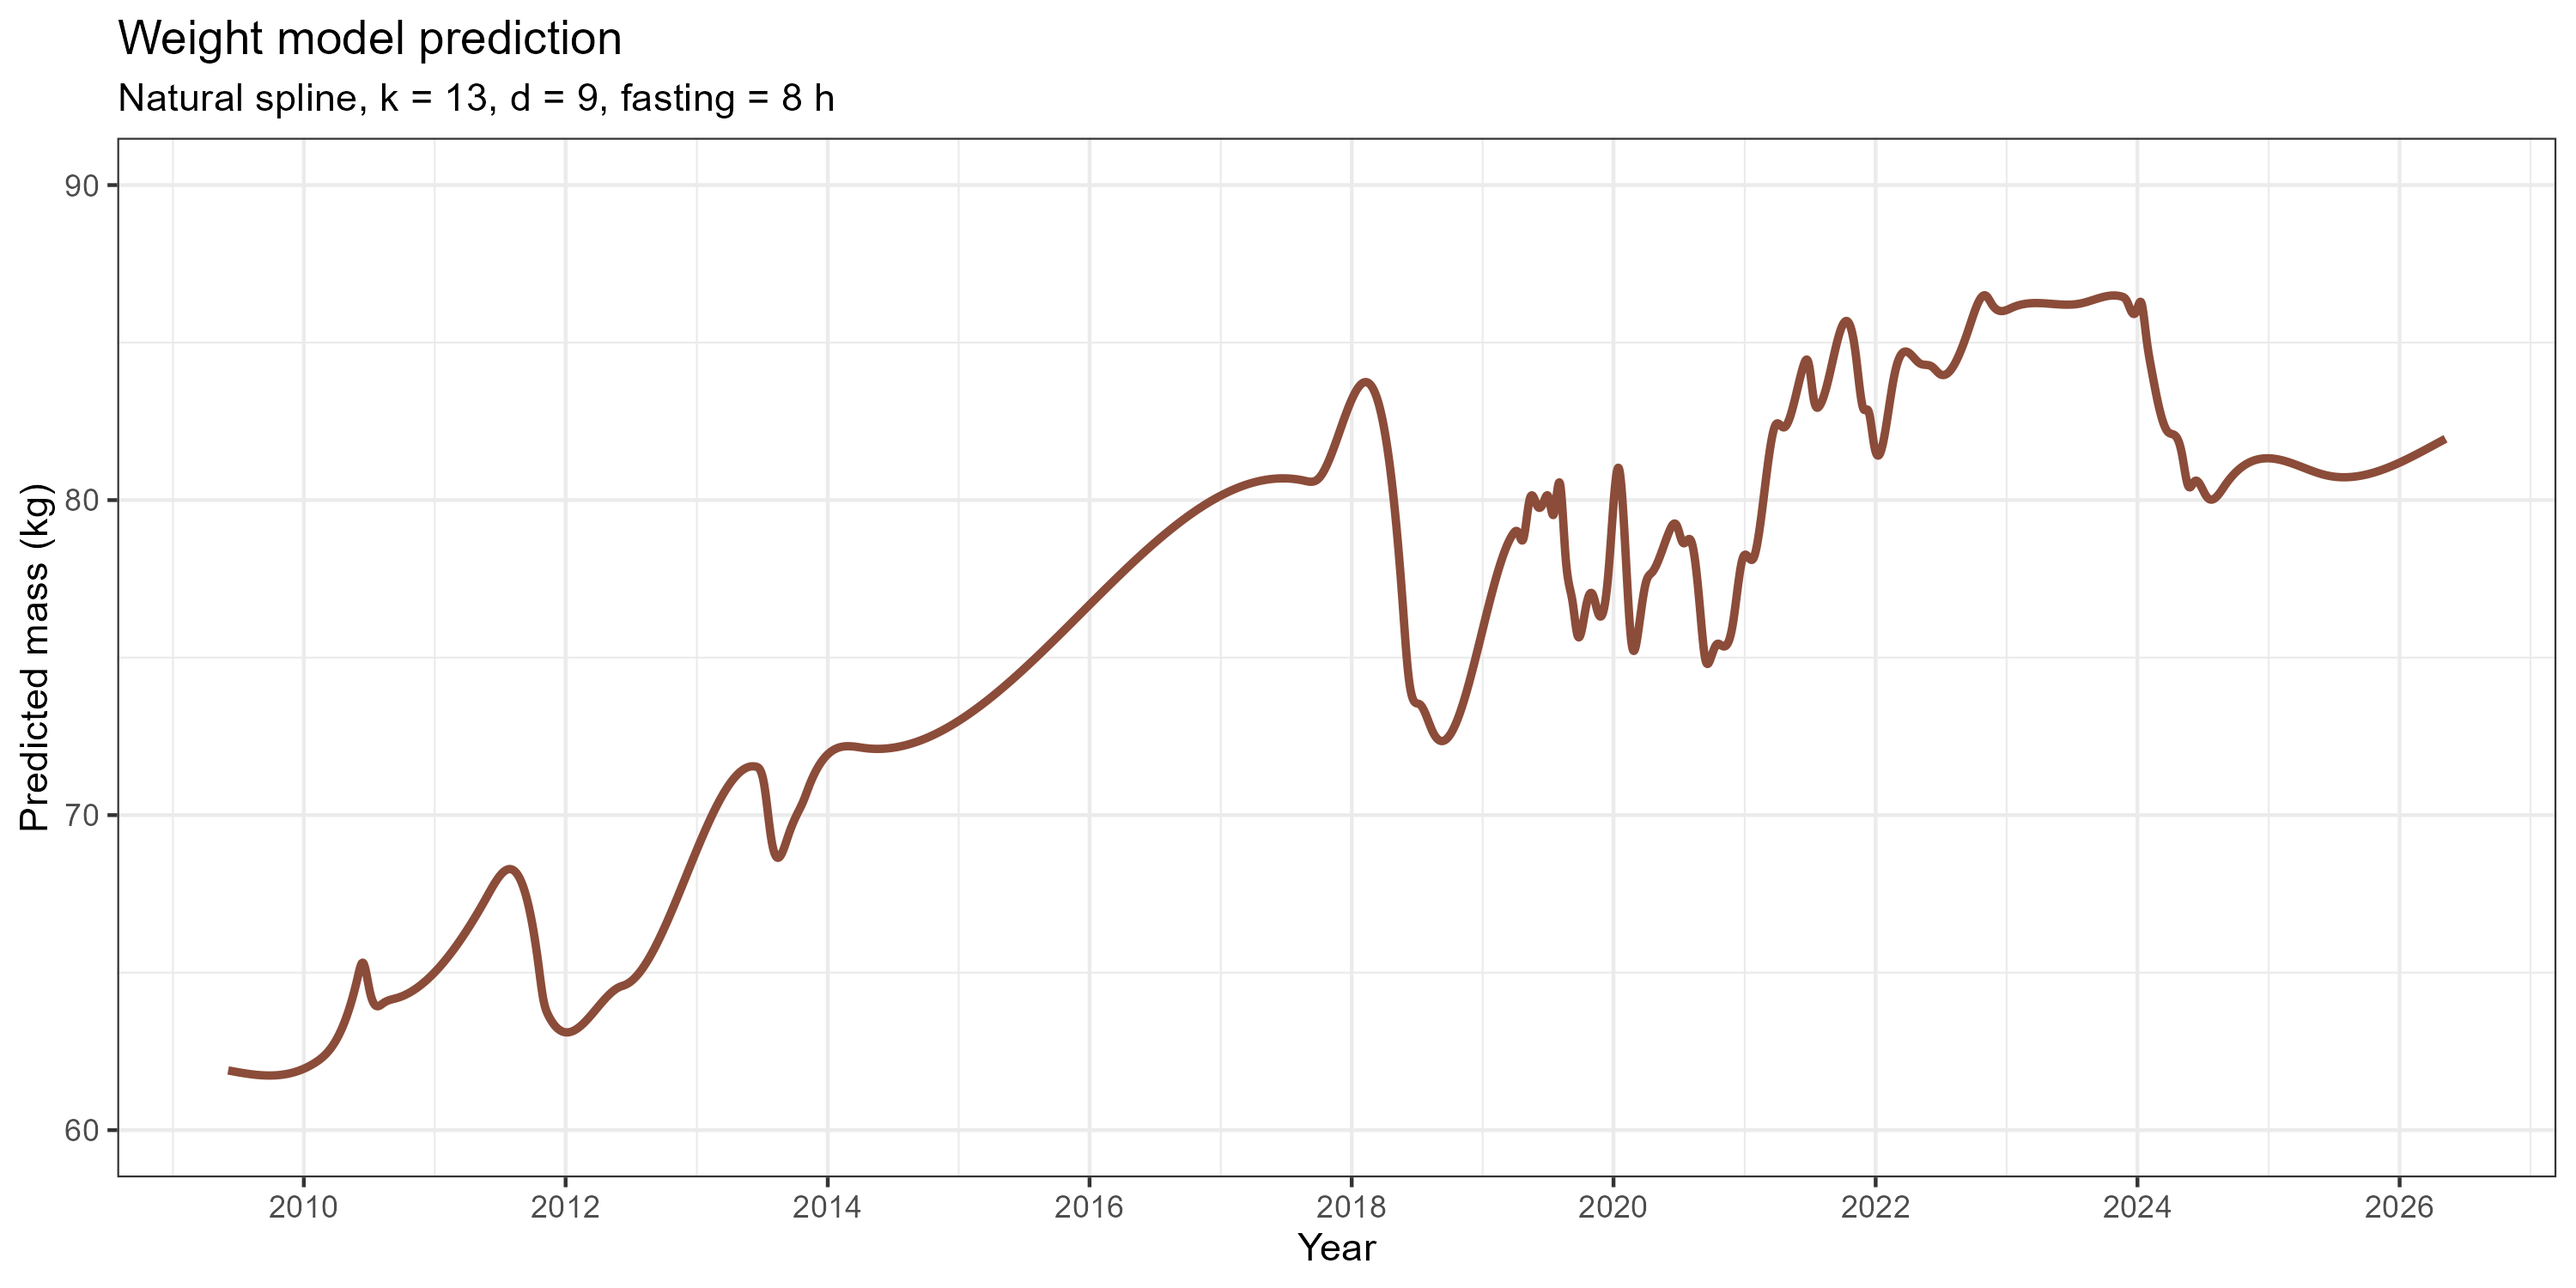
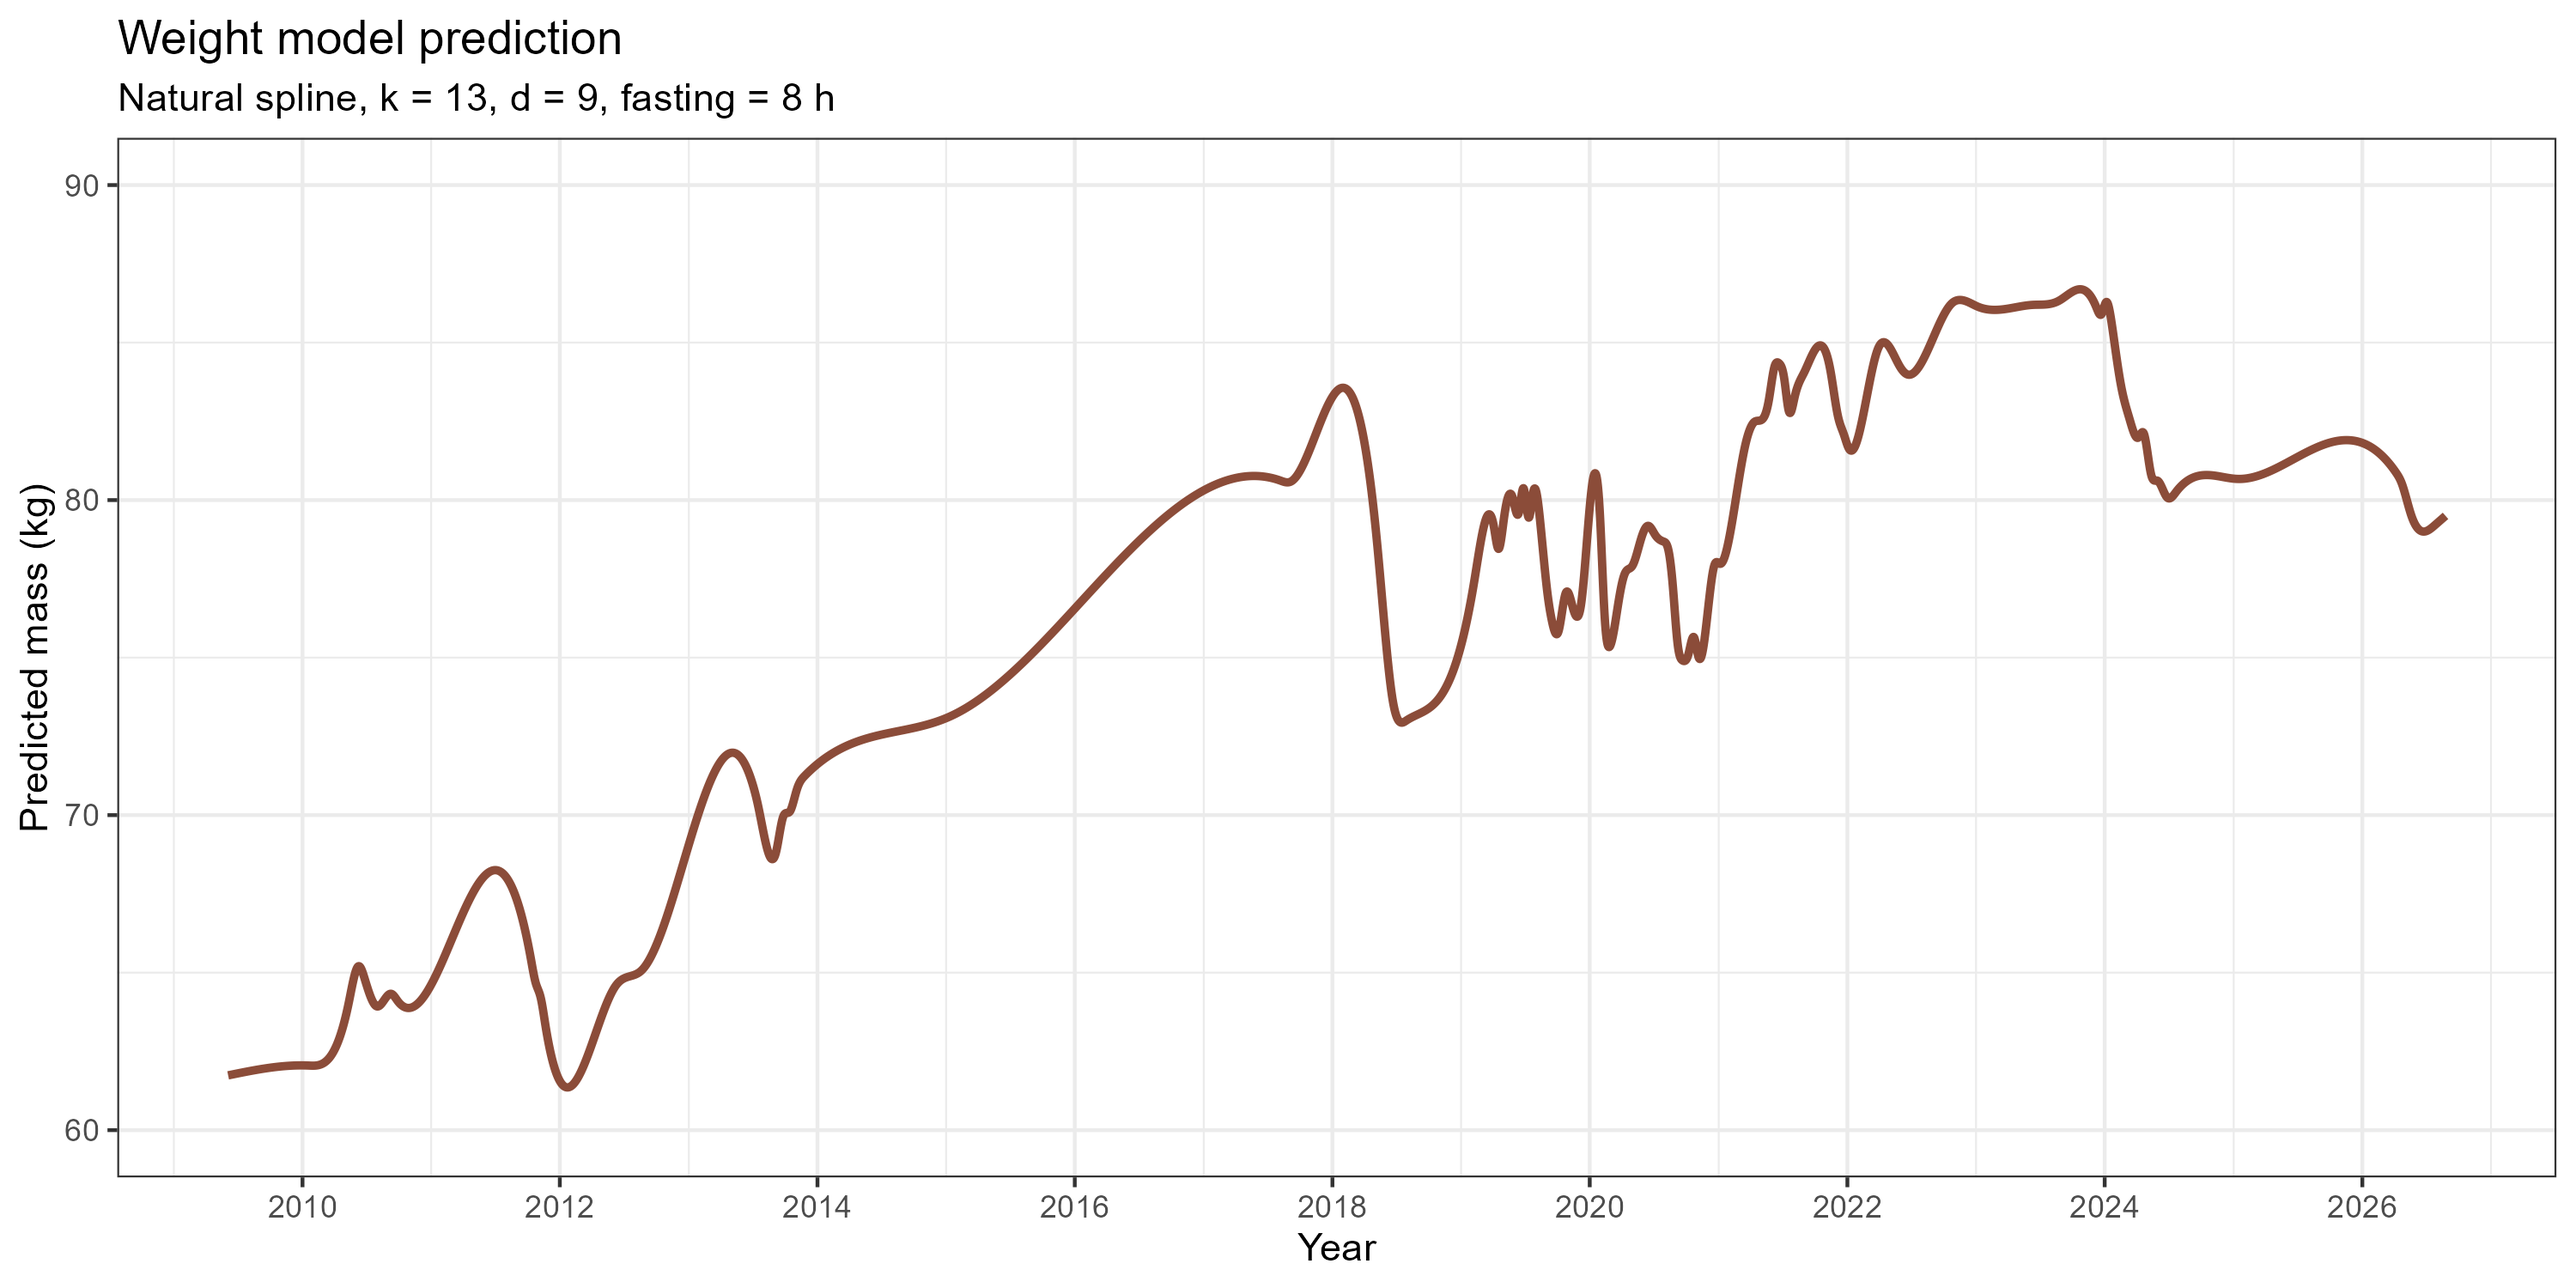
Log weight through 2026-07-26, fix measure_weight skill
Weight observations appended via the measure_weight skill; iter1.r outputs
(model plot, quarterly summary) regenerated.

Two skill fixes surfaced during use:
- Point at R 4.6.0. The 4.5.2 install has an rlang/ggplot2 mismatch that
  breaks iter1.r.
- Take today's date from `date`, not from conversation context, and only
  warn on a duplicate when the same mass was already logged on the same
  calendar day. The previous wording produced a false duplicate warning.

diff --git a/.claude/skills/measure_weight/SKILL.md b/.claude/skills/measure_weight/SKILL.md
@@ -64,7 +64,7 @@ cat("Appended:", KG_VALUE, "kg on", as.character(Sys.Date()), "\n")
 
 2. Run it via Bash:
 ```bash
-cd "C:/Users/mrkma/OneDrive/DKM/Stats_R/R/Martysweight" && "/c/Program Files/R/R-4.5.2/bin/Rscript.exe" -e "source('inst/simple_summ_plot/_append_weight.r')"
+cd "C:/Users/mrkma/OneDrive/DKM/Stats_R/R/Martysweight" && "/c/Program Files/R/R-4.6.0/bin/Rscript.exe" -e "source('inst/simple_summ_plot/_append_weight.r')"
 ```
 
 3. Delete the temp file after it succeeds.
@@ -72,7 +72,7 @@ cd "C:/Users/mrkma/OneDrive/DKM/Stats_R/R/Martysweight" && "/c/Program Files/R/R
 ### 3. Re-run iter1.r
 
 ```bash
-cd "C:/Users/mrkma/OneDrive/DKM/Stats_R/R/Martysweight" && "/c/Program Files/R/R-4.5.2/bin/Rscript.exe" -e "source('inst/simple_summ_plot/iter1.r')"
+cd "C:/Users/mrkma/OneDrive/DKM/Stats_R/R/Martysweight" && "/c/Program Files/R/R-4.6.0/bin/Rscript.exe" -e "source('inst/simple_summ_plot/iter1.r')"
 ```
 
 ### 4. Present results
@@ -86,6 +86,6 @@ After iter1.r completes:
 ## Important notes
 
 - Always run from the repo root: `C:/Users/mrkma/OneDrive/DKM/Stats_R/R/Martysweight`
-- The R executable is at: `/c/Program Files/R/R-4.5.2/bin/Rscript.exe`
-- Do NOT create duplicate entries — if the user already logged today with the same mass, warn them
+- The R executable is at: `/c/Program Files/R/R-4.6.0/bin/Rscript.exe`
+- Do NOT create duplicate entries — check today's date via `date +"%Y-%m-%d"` (NOT from conversation context) before comparing with previous entries. Only warn if the same mass was already logged on the same calendar day.
 - The quarterly summary CSV/XLSX are also regenerated by iter1.r
